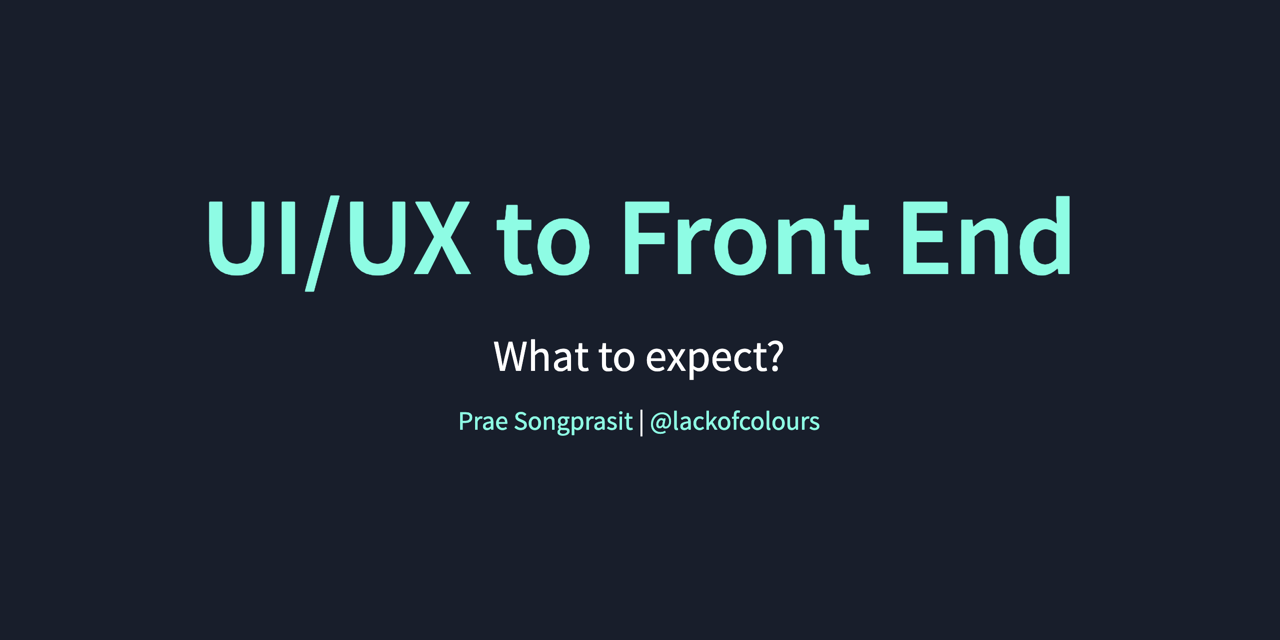
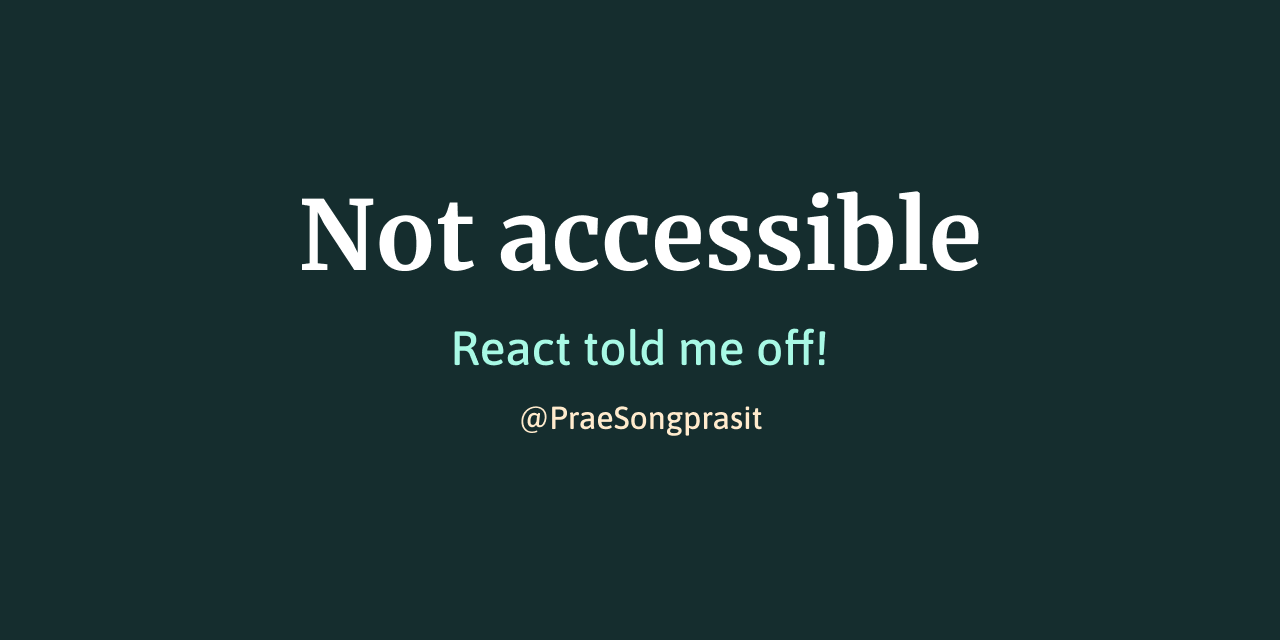
Update basic slide info

Changed region(s): [[0.1562, 0.2812, 0.8438, 0.4688], [0.3438, 0.5, 0.6562, 0.5938], [0.3438, 0.625, 0.6562, 0.6875]]

diff --git a/index.html b/index.html
@@ -18,23 +18,26 @@
 		<meta name="theme-color" content="#A2DDD9"/>
 		<meta name="background-color" content="#fff"/>
 
-		<meta property="og:url" content="https://praesongprasit.github.io/talk_get-devs-into-UX-journey/" />
+		<meta property="og:url" content="https://praesongprasit.github.io/talk_react-told-me-off/" />
 		<meta property="og:type" content="article">
 
-		<meta property="og:image" name="twitter:image" content="https://praesongprasit.github.io/talk_get-devs-into-UX-journey/repository-open-graph_img.png" />
+		<meta property="og:image" name="twitter:image" content="https://praesongprasit.github.io/talk_react-told-me-off/repository-open-graph_img.png" />
 		<meta property="og:image:alt" content="Web Access Club logo, written in dark teal serif font, with light sea spray background."/>
 		<meta property="og:image:type" content="image/png"/>
 		<meta property="og:image:width" content="1280"/>
 		<meta property="og:image:height" content="640"/>
 
-		<meta property="og:title" name="twitter:title" content="Including developers in the User Experience journey" />
-		<meta property="og:description" name="twitter:description" content="How do we go about it?" />
+		<meta property="og:title" name="twitter:title" content="Not accessible - React told me off!" />
+		<meta property="og:description" name="twitter:description" content="I’m an engineer who cares about HTML output. I still make mistakes.
+Often, front-end frameworks like React and Angular abstract HTML away. Even more so with design systems built on these frameworks. It’s easy to forget to scrutinise the output during implementation.
+The good news is, these frameworks are aware of the problem, and are constantly getting better at catching low-hanging fruit.
+Let me show you a few ways React and React Testing Library told me off!" />
 
 		<meta name="twitter:card" content="summary_large_image">
 		<meta name="twitter:dnt" content="on">
 		<meta name="twitter:creator" content="@PraeSongprasit">
 
-		<title>Including Developers in the User Experience Journey - Prae Songprasit</title>
+		<title>Not accessible - React told me off! - Prae Songprasit</title>
 
 		<link rel="stylesheet" href="dist/reset.css">
 		<link rel="stylesheet" href="dist/reveal.css">
@@ -47,8 +50,8 @@
 		<div class="reveal">
 			<main class="slides">
 				<section>
-					<h1>Title</h1>
-					<p>Subtitle</p>
+					<h1>Not accessible</h1>
+					<p>React told me off!</p>
 					<p class="small-text">
 						<a href="https://twitter.com/PraeSongprasit" alt="Link to Prae Songprasit's twitter">@PraeSongprasit</a>
 					</p>
